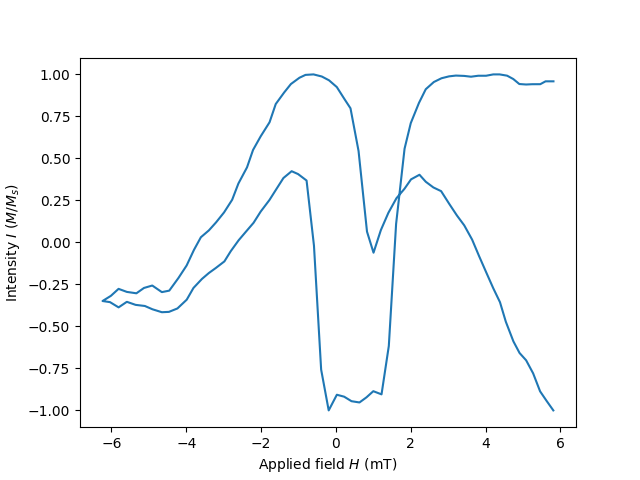
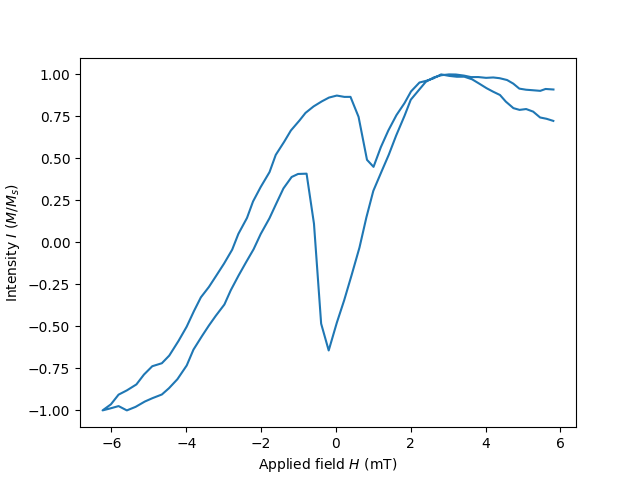
remanence and coercivity calculations

diff --git a/processing.py b/processing.py
@@ -12,6 +12,7 @@ from saturation_gradient import grad_avg
 from saturation_gradient import sat_gradient
 from saturation_gradient import min_max_scaler
 from saturation_gradient import separate_scaler
+from saturation_gradient import find_roots
 ################################################################################
 
 def main():
@@ -26,8 +27,11 @@ def main():
     ###########################################################################
     # parameters for gradient algorithm
     params = [(3, -0.4), (7, -0.5), (4, -0.85), (7, 0.1), (7, 0.1), (7, -0.4),\
-              (5, 0.2), (7, 0.2), (5, 0.2),(7, 0.2), (5, 0.2), (5, 0.2),\
+              (3, 0.8), (3, 0.8), (3, 0.8), (7, 0.2), (5, 0.2), (5, 0.2),\
               (5, 0.2), (5, 0.2), (5, 0.2), (5, 0.2)]
+    # filter amount
+    gauss_amt = 0.5
+    savgol_amt = 0.7
     degs_and_params = dict.fromkeys(degs, params)
     for i, deg in enumerate(degs):
         degs_and_params[deg] = params[i]
@@ -52,15 +56,22 @@ def main():
                              applied[col].values, threshold, width)
         grads = np.multiply(applied[col].values, grads)
         #print(col, grads)
-        intensity_grad_adj[col] = intensity[col].values - grads
-        gauss_amt = 0.5
-        intensity_grad_adj[col] = (1 - gauss_amt) * intensity_grad_adj[col].values\
-              + gauss_amt * gaussian_filter(intensity_grad_adj[col].values, 2)
-        savgol_amt = 0.7
-        intensity_grad_adj[col] = (1 - savgol_amt) * intensity_grad_adj[col].values\
-              + savgol_amt * savgol_filter(intensity_grad_adj[col].values, 5, 3)
-        intensity_grad_adj[col] = separate_scaler(applied[col].values,
-                                                  intensity_grad_adj[col].values)
+        intensity_grad_adj[col] = intensity[col].values
+        if deg not in [88, 90, 92, 105, 120, 135, 270]:
+            intensity_grad_adj[col] = intensity_grad_adj[col].values - grads
+            intensity_grad_adj[col] = (1 - gauss_amt) * intensity_grad_adj[col].values\
+                + gauss_amt * gaussian_filter(intensity_grad_adj[col].values, 2)
+            intensity_grad_adj[col] = (1 - savgol_amt) * intensity_grad_adj[col].values\
+                + savgol_amt * savgol_filter(intensity_grad_adj[col].values, 5, 3)
+            intensity_grad_adj[col] = separate_scaler(applied[col].values,
+                                                        intensity_grad_adj[col].values)
+        else:
+            intensity_grad_adj[col] = (1 - gauss_amt) * intensity_grad_adj[col].values\
+                + gauss_amt * gaussian_filter(intensity_grad_adj[col].values, 2)
+            intensity_grad_adj[col] = (1 - savgol_amt) * intensity_grad_adj[col].values\
+                + savgol_amt * savgol_filter(intensity_grad_adj[col].values, 5, 3)
+            intensity_grad_adj[col] = separate_scaler(applied[col].values,
+                                                        intensity_grad_adj[col].values)
         plt.plot(applied[col], intensity_grad_adj[col])
         plt.xlabel('Applied field $H$ (mT)')
         plt.ylabel('Intensity $I$ ($M/M_s$)')
@@ -72,17 +83,13 @@ def main():
         plt.savefig(f'{col}/grad_raw_plot.png')
         plt.close()
         # calculate remanent magnetization
-        sort_applied = np.sort(np.abs(applied[col].values))
-        idx_of_zero1 = np.where(np.abs(applied[col].values)==sort_applied[0])[0][0]
-        idx_of_zero2 = np.where(np.abs(applied[col].values)==sort_applied[1])[0][0]
-        remanence.append(0.5 * np.abs(intensity_grad_adj[col].values[idx_of_zero1]) \
-                       + 0.5 * np.abs(intensity_grad_adj[col].values[idx_of_zero2]))
+        remanence.append(np.mean(np.abs(find_roots(intensity_grad_adj[col].values, applied[col].values))))
         # calculate coercive field:
-        sort_intensity = np.sort(np.abs(intensity_grad_adj[col].values))
-        idx_of_zero1 = np.where(np.abs(intensity_grad_adj[col].values)==sort_intensity[0])[0][0]
-        idx_of_zero2 = np.where(np.abs(intensity_grad_adj[col].values)==sort_intensity[1])[0][0]
-        coercive_field.append(0.5 * np.abs(applied[col].values[idx_of_zero1]) \
-                            + 0.5 * np.abs(applied[col].values[idx_of_zero2]))
+        intercepts = find_roots(applied[col].values, intensity_grad_adj[col].values)
+        if len(intercepts) == 4:
+            intercepts = np.array([intercepts[1], intercepts[3]])
+        print(deg, intercepts)
+        coercive_field.append(np.mean(np.abs(intercepts)))
     print(remanence)
     linspace_degs = np.linspace(0,270, num=19)
     # plot remanence:
@@ -103,5 +110,6 @@ def main():
     plt.savefig('coercive_field.png')
     plt.close()
     
+    intensity_grad_adj.to_csv('intensity_grad_adj.csv',index=False)
 if __name__ == "__main__":
 	main()

diff --git a/saturation_gradient.py b/saturation_gradient.py
@@ -108,14 +108,6 @@ def sat_gradient(arr: np.ndarray, \
                 grads[el] = grads[region[len(region) - 1] + 1]
     return grads
 
-def main():
-
-    intensity = pd.read_csv('intensity.csv')
-    applied = pd.read_csv('applied.csv')
-    #sat_gradient(intensity['0deg'])
-    #print(grad_avg(intensity['0deg'], 10))
-    sat_gradient(intensity['15deg'].values,
-                       applied['15deg'].values, -0.5, 7)
-    #print(grad_avg(intensity_grad['0deg'], 5))
-if __name__ == "__main__":
-    main()
+def find_roots(x,y):
+    s = np.abs(np.diff(np.sign(y))).astype(bool)
+    return x[:-1][s] + np.diff(x)[s]/(np.abs(y[1:][s]/y[:-1][s])+1)
